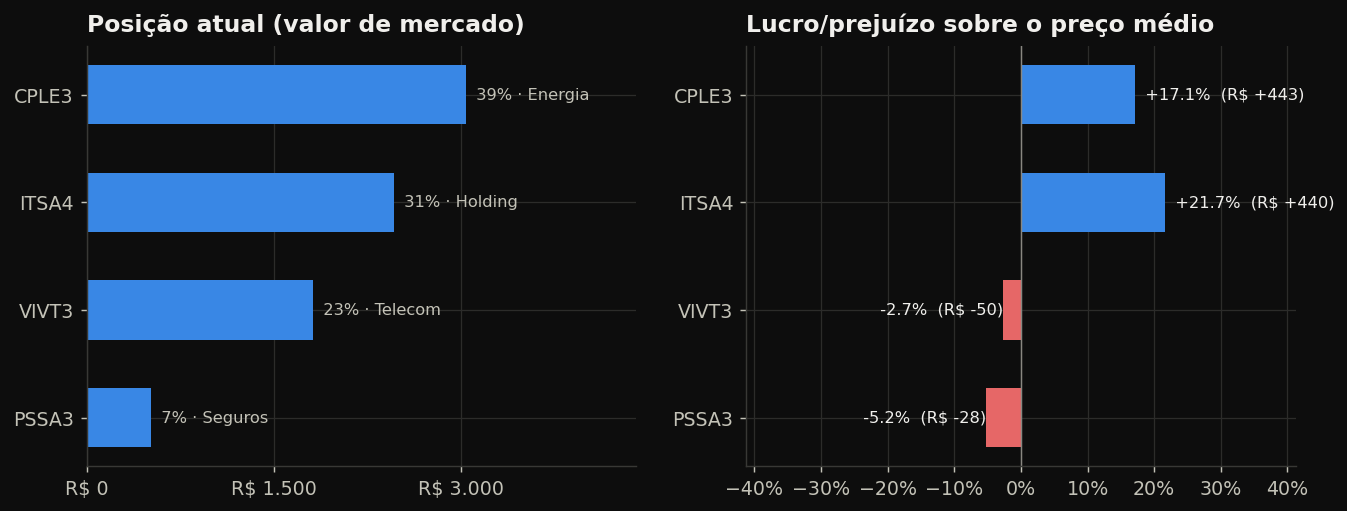
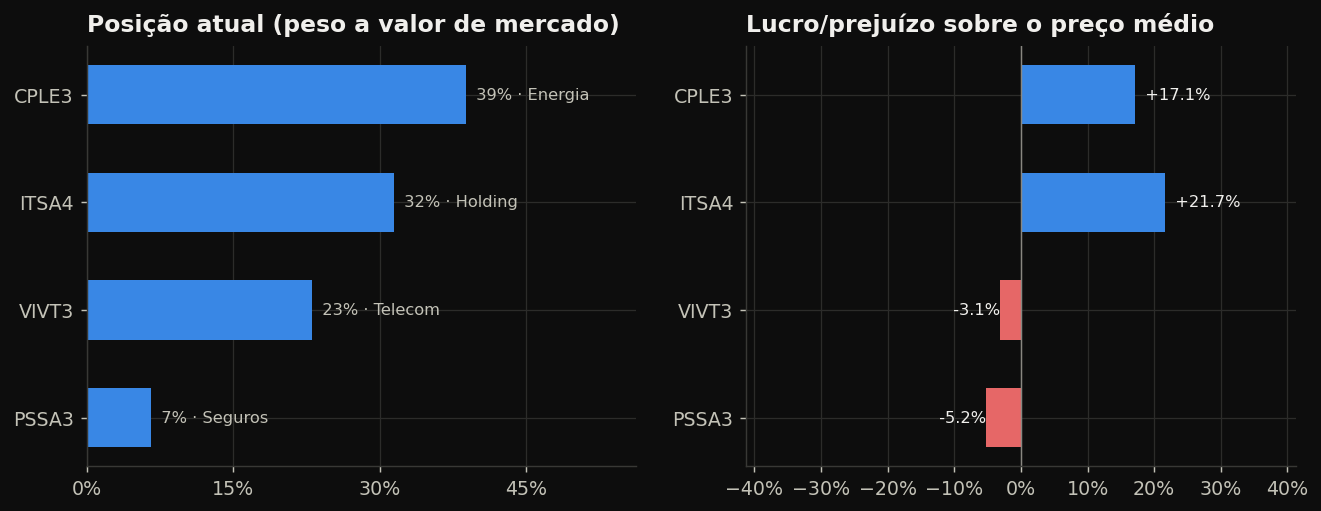
README e gráficos só em %: tira valores em R$ (resultado, custo, patrimônio)

diff --git a/carteira/analise_carteira.py b/carteira/analise_carteira.py
@@ -210,25 +210,26 @@ p_cdi = (pnl > rf).mean()
 fig, (ax, ax2) = plt.subplots(1, 2, figsize=(12, 5.2), gridspec_kw={"width_ratios": [2.2, 1]}, sharey=True)
 d = np.arange(DIAS + 1)
 faixas = [(5, 95, 0.12), (25, 75, 0.25)]
+ret_sim = valor_sim / patrimonio_acoes - 1                       # em % (sem expor o patrimonio)
 for lo, hi, a in faixas:
-    ax.fill_between(d, np.percentile(valor_sim, lo, axis=1), np.percentile(valor_sim, hi, axis=1),
+    ax.fill_between(d, np.percentile(ret_sim, lo, axis=1), np.percentile(ret_sim, hi, axis=1),
                     color=AZUL, alpha=a, lw=0, label=f"P{lo}–P{hi}")
 for k in rng.choice(N_SIM, 40, replace=False):
-    ax.plot(d, valor_sim[:, k], color=AZUL, lw=0.4, alpha=0.25)
-ax.plot(d, np.median(valor_sim, axis=1), color=AZUL, lw=2, label="Mediana")
-ax.plot(d, patrimonio_acoes * np.exp(np.log1p(rf) * d / DIAS), color=CINZA, lw=1.4, ls="--", label="CDI")
-ax.yaxis.set_major_formatter(BRL); ax.set_xlabel("Pregões à frente")
+    ax.plot(d, ret_sim[:, k], color=AZUL, lw=0.4, alpha=0.25)
+ax.plot(d, np.median(ret_sim, axis=1), color=AZUL, lw=2, label="Mediana")
+ax.plot(d, np.exp(np.log1p(rf) * d / DIAS) - 1, color=CINZA, lw=1.4, ls="--", label="CDI")
+ax.yaxis.set_major_formatter(PCT); ax.set_xlabel("Pregões à frente")
 ax.set_title(f"Monte Carlo — {N_SIM:,} caminhos de 1 ano da minha carteira".replace(",", "."), pad=22)
 subtitulo(ax, f"GBM multivariado com Cholesky (correlação real entre {', '.join(atuais)}) · "
-              f"ponto de partida R$ {patrimonio_acoes:,.0f}".replace(",", ".").replace(". ", ", "))
+              f"retorno acumulado sobre o valor de hoje")
 ax.legend(loc="upper left", fontsize=9)
-ax2.hist(final, bins=70, orientation="horizontal", color=AZUL, alpha=0.75, edgecolor=FUNDO, lw=0.3)
-lim_var = patrimonio_acoes * (1 + var95)
+ax2.hist(pnl, bins=70, orientation="horizontal", color=AZUL, alpha=0.75, edgecolor=FUNDO, lw=0.3)
+lim_var = var95
 ax2.axhline(lim_var, color=VERMELHO, lw=1.5)
-ax2.axhline(patrimonio_acoes, color=CINZA, lw=1, ls=":")
+ax2.axhline(0, color=CINZA, lw=1, ls=":")
 ax2.text(ax2.get_xlim()[1] * 0.97, lim_var, f"VaR 95%  {var95:.1%}\nCVaR 95% {cvar95:.1%}",
          ha="right", va="top", fontsize=9, color=TINTA, fontweight="bold")
-ax2.text(ax2.get_xlim()[1] * 0.97, np.percentile(final, 97),
+ax2.text(ax2.get_xlim()[1] * 0.97, np.percentile(pnl, 97),
          f"P(lucro) {p_lucro:.0%}\nP(bater CDI) {p_cdi:.0%}", ha="right", va="top", fontsize=9, color=TINTA)
 ax2.set_xlabel("Nº de cenários"); ax2.set_title("Distribuição em 1 ano", pad=22)
 salvar(fig, "monte_carlo_carteira.png")
@@ -289,21 +290,20 @@ salvar(fig, "carteira_vs_ibov.png")
 print("Trades...")
 rt = pd.read_csv(os.path.join(AQUI, "dados", "round_trips.csv"), parse_dates=["data_venda"])
 rt = rt[rt.status != "sem_custo"].sort_values("data_venda").reset_index(drop=True)
-rt["acum"] = rt["resultado"].cumsum()
+rt["acum"] = rt["resultado"].cumsum() / (rt["qtd"] * rt["preco_medio"]).cumsum()  # % sobre o custo do que foi vendido
 fig, (a1, a2) = plt.subplots(2, 1, figsize=(11, 6.4), sharex=True, gridspec_kw={"height_ratios": [1.5, 1]})
 a1.step(rt["data_venda"], rt["acum"], where="post", color=AZUL, lw=2)
 a1.fill_between(rt["data_venda"], rt["acum"], step="post", color=AZUL, alpha=0.08)
-a1.yaxis.set_major_formatter(BRL)
+a1.yaxis.set_major_formatter(PCT)
 a1.set_title(f"Resultado realizado acumulado — {len(rt)} vendas reais "
              f"({rt.data_venda.dt.year.min()}–{rt.data_venda.dt.year.max()})", pad=22)
-subtitulo(a1, "extrato de movimentação da B3 + notas de corretagem · apurado por preço médio · sem taxas")
+subtitulo(a1, "% sobre o custo das posições vendidas · extrato da B3 + notas de corretagem · preço médio · sem taxas")
 for _, t in rt.nlargest(4, "resultado").iterrows():
     a1.annotate(f"{t.ticker} {t.resultado_pct:+.0%}", (t.data_venda, t.acum), xytext=(-8, 8),
                 textcoords="offset points", ha="right", fontsize=8.5, color=TINTA)
-por_dia = rt.groupby("data_venda")["resultado"].sum()
-a2.bar(por_dia.index, por_dia.values, width=9, color=np.where(por_dia.values >= 0, AZUL, VERMELHO))
+a2.bar(rt["data_venda"], rt["resultado_pct"], width=9, color=np.where(rt["resultado_pct"] >= 0, AZUL, VERMELHO))
 a2.axhline(0, color=CINZA, lw=0.8)
-a2.yaxis.set_major_formatter(BRL); a2.set_ylabel("Por dia de venda")
+a2.yaxis.set_major_formatter(PCT); a2.set_ylabel("Cada venda")
 salvar(fig, "trades_resultado.png")
 
 anual = rt.groupby(rt.data_venda.dt.year).agg(resultado=("resultado", "sum"), vendas=("resultado", "size"),
@@ -315,16 +315,16 @@ anual.to_csv(os.path.join(SAIDA, "trades_por_ano.csv"))
 # =====================================================================================
 fig, (a1, a2) = plt.subplots(1, 2, figsize=(12, 4.2))
 ordem = pos.sort_values("valor")
-a1.barh(ordem.index, ordem["valor"], color=AZUL, height=0.55)
+a1.barh(ordem.index, ordem["peso"], color=AZUL, height=0.55)
 for i, (t, r) in enumerate(ordem.iterrows()):
-    a1.text(r.valor, i, f"  {r.peso:.0%} · {r.setor}", va="center", fontsize=9, color=TINTA_2)
-a1.xaxis.set_major_locator(mtick.MaxNLocator(4)); a1.xaxis.set_major_formatter(BRL)
-a1.set_title("Posição atual (valor de mercado)", pad=8)
-a1.set_xlim(0, ordem["valor"].max() * 1.45)
+    a1.text(r.peso, i, f"  {r.peso:.0%} · {r.setor}", va="center", fontsize=9, color=TINTA_2)
+a1.xaxis.set_major_locator(mtick.MaxNLocator(4)); a1.xaxis.set_major_formatter(PCT)
+a1.set_title("Posição atual (peso a valor de mercado)", pad=8)
+a1.set_xlim(0, ordem["peso"].max() * 1.45)
 lp_pct = (ordem["lp"] / ordem["custo"])
 a2.barh(ordem.index, lp_pct, color=np.where(lp_pct >= 0, AZUL, VERMELHO), height=0.55)
 for i, (t, v) in enumerate(lp_pct.items()):
-    a2.text(v, i, f"  {v:+.1%}  (R$ {ordem.loc[t, 'lp']:+,.0f})".replace(",", "."),
+    a2.text(v, i, f"  {v:+.1%}",
             va="center", ha="left" if v >= 0 else "right", fontsize=9, color=TINTA)
 a2.axvline(0, color=CINZA, lw=0.8); a2.xaxis.set_major_formatter(PCT)
 a2.set_title("Lucro/prejuízo sobre o preço médio", pad=8)

diff --git a/README.md b/README.md
@@ -13,8 +13,8 @@ Todos os números e gráficos abaixo vêm **da minha carteira e das minhas opera
 | | |
 |---|---|
 | **Operações reais analisadas** | 45 ordens · **21 vendas** · jan/2025 → out/2026 |
-| **Resultado realizado** | **R$ +3.381** (preço médio, sem taxas) · acerto de **76%** · ganho médio R$ 226 × perda média R$ 47 |
-| **Melhores trades** | TOTS3 **+35%** e EQTL3 **+37%** (out/2026) · PETR4 **+22,7%** (212 ações, preço médio R$ 31,12 → venda a R$ 38,20, fev/2026) |
+| **Resultado realizado** | **+13,4%** sobre o custo das posições vendidas (preço médio, sem taxas) · acerto de **76%** |
+| **Melhores trades** | TOTS3 **+35%** e EQTL3 **+37%** (out/2026) · PETR4 **+22,7%** (fev/2026) |
 | **Carteira atual** | CPLE3 · ITSA4 · VIVT3 · PSSA3 (+ caixa) · **+11,4%** sobre o custo |
 | **Markowitz** | carteira atual: Sharpe **0,73** · o máximo Sharpe da fronteira: **0,87** com a mesma vol (18%) |
 | **Monte Carlo (1 ano, 10 mil caminhos)** | VaR 95% **−3,5%** · CVaR 95% **−10,9%** · P(bater o CDI) **76%** |
@@ -28,22 +28,22 @@ Todos os números e gráficos abaixo vêm **da minha carteira e das minhas opera
 
 ![Resultado realizado acumulado](docs/img/trades_resultado.png)
 
-Cada degrau é uma venda real. A apuração usa **preço médio ponderado** (a regra da Receita, igual ao que a corretora informa), não FIFO. 2025 foi o ano de ajuste: limpei posições antigas que não faziam sentido (RANI3, SOJA3, BBAS3) e girei muito em operações curtas. Em 2026 mudei o processo — menos operações, mais convicção, decisão apoiada nas ferramentas deste repositório — e o resultado realizado do ano chegou a **R$ +3.378 em 8 vendas, todas no lucro**.
+Cada degrau é uma venda real. A apuração usa **preço médio ponderado** (a regra da Receita, igual ao que a corretora informa), não FIFO. 2025 foi o ano de ajuste: limpei posições antigas que não faziam sentido (RANI3, SOJA3, BBAS3) e girei muito em operações curtas. Em 2026 mudei o processo — menos operações, mais convicção, decisão apoiada nas ferramentas deste repositório — e o resultado realizado do ano chegou a **+22,9% em 8 vendas, todas no lucro**.
 
 | Ano | Vendas | Resultado | Acerto |
 |---|---:|---:|---:|
-| 2025 | 13 | R$ +3 | 62% |
-| **2026** | **8** | **R$ +3.378** | **100%** |
+| 2025 | 13 | 0,0% | 62% |
+| **2026** | **8** | **+22,9%** | **100%** |
 
 ### Petrobras (PETR4): a posição do fim de 2025
 
-Comprei 212 ações de PETR4 na faixa de R$ 30–32: 92 a R$ 30,74 em set/25 e 120 a R$ 31,41 em dez/25 (**preço médio R$ 31,12, custo R$ 6.598**). Enquanto segurava, deixei as ações no aluguel (BTC). Saí na alta de fevereiro: **200 ações a R$ 38,20 em 05/02/2026 e 12 a R$ 38,00 em 13/02**, recebendo R$ 8.094. Resultado: **R$ +1.498, ou +22,7%** em cerca de 5 meses. Somando os proventos que o aluguel reembolsou (R$ 181 em fev–mar/26), o ganho total da posição foi de **R$ +1.680 (+25%)**.
+Montei a posição de PETR4 em duas compras, em set/25 e dez/25. Enquanto segurava, deixei as ações no aluguel (BTC). Saí na alta de fevereiro, em duas vendas (05/02 e 13/02/2026). Resultado: **+22,7%** em cerca de 5 meses. Somando os proventos que o aluguel reembolsou (fev–mar/26), o ganho total da posição foi de **+25%**.
 
 > No extrato da B3 o aluguel aparece como "Liquidação": a ação emprestada sai **sem preço** e volta dias depois com a mesma quantidade. O `trades_b3.py` casa cada saída sem preço com a devolução seguinte e tira o par do cálculo, porque não é compra nem venda. Conferi contra o extrato da conta no Inter: as devoluções não movimentam caixa, só as compras e as vendas de verdade.
 
 ### TOTS3 e EQTL3: por que vendi em outubro
 
-Em 20/10/2026 vendi as duas de uma vez: **96 TOTS3 a R$ 41,98** (preço médio R$ 31,10, **R$ +1.044, +35%**) e **54 EQTL3 a R$ 50,12** (preço médio R$ 36,70, **R$ +725, +37%**). Três motivos:
+Em 20/10/2026 vendi as duas de uma vez: **TOTS3 com +35%** e **EQTL3 com +37%** sobre o preço médio. Três motivos:
 
 1. **Pagavam pouco dividendo.** As duas são teses de crescimento, não de renda, e não se encaixam na estratégia de dividendos da carteira (BESST + Bazin).
 2. **Concentravam o ganho.** Sozinhas, sustentavam a maior parte da valorização da carteira. Se elas devolvessem a alta, a carteira inteira devolveria junto.
@@ -79,7 +79,7 @@ GBM **multivariado**: os choques diários são correlacionados via **decomposiç
 
 > **Ressalva honesta:** o drift é a média histórica de 3 anos (~28% a.a.), um período bom para esses papéis. O número que eu levo a sério é a **cauda** (CVaR −10,9%), não a mediana.
 
-Também rodo o Monte Carlo papel a papel. O da TOTS3 ([notebook 01](notebooks/01_monte_carlo_gbm.ipynb)), rodado em jun/2026 com o papel a ~R$ 29,50 (comprei a R$ 31,10), dava a média perto de R$ 34 e o percentil 95 perto de R$ 59. Vendi em outubro a **R$ 41,98 (+35%)**, dentro do cone:
+Também rodo o Monte Carlo papel a papel. O da TOTS3 ([notebook 01](notebooks/01_monte_carlo_gbm.ipynb)), rodado em jun/2026 com o papel uns 5% abaixo do meu preço médio, dava a média ~15% acima do preço da época e o percentil 95 perto do dobro. Vendi em outubro com **+35%**, dentro do cone:
 
 ![Monte Carlo TOTS3](docs/img/notebooks/01_monte_carlo_gbm_2.png)
 
@@ -122,7 +122,7 @@ Detalhes: [`analisador/README.md`](analisador/README.md)
 ## O que os dados me ensinaram
 
 1. **No Brasil, o benchmark é o CDI, não o IBOV.** Toda decisão aqui é medida contra a Selic do mesmo período, e Sharpe e drawdown pesam tanto quanto o retorno.
-2. **Giro alto não paga.** 17 vendas em 2025 deram R$ −181; 11 vendas com mais convicção em 2026 deram R$ +2.224.
+2. **Giro alto não paga.** 13 vendas em 2025 deram 0,0%; 8 vendas com mais convicção em 2026 deram +22,9%.
 3. **Markowitz sem restrição é inútil na prática.** O teto de 40% por papel é o que torna a resposta utilizável.
 4. **Média de dividendos engana.** A média de DPA de 5 anos infla quem cortou dividendo ou teve um ano extraordinário. Antes de confiar no preço teto, confiro a renda conservadora = mín(média de 5 anos, últimos 12 meses) e a tendência do DPA.
 
